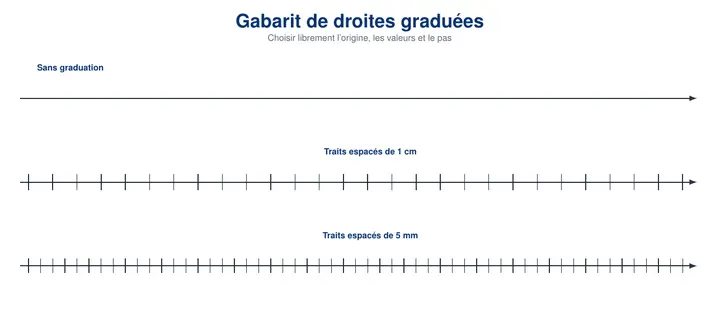
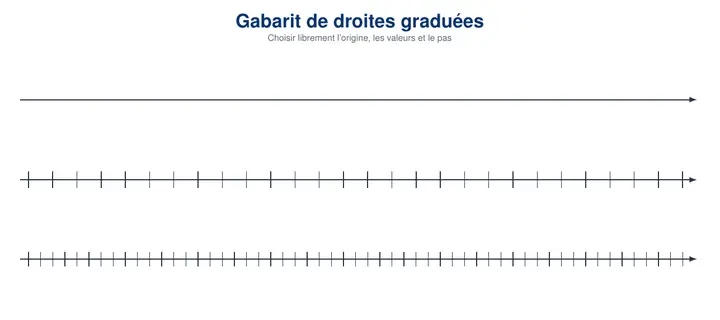
Clarifier l’impression des gabarits de repérage (#647)

diff --git a/outils/index.html b/outils/index.html
@@ -31,7 +31,7 @@
   <link rel="stylesheet" href="../assets/css/catalogue-refonte.css?v=breadcrumb-align-20260829-1">
   <link rel="stylesheet" href="../assets/css/consentement.css">
   <script defer src="../assets/js/consentement.js"></script>
-  <script defer src="../assets/js/catalogue-refonte-data.js?v=gabarits-reperage-20260904-2"></script>
+  <script defer src="../assets/js/catalogue-refonte-data.js?v=gabarits-reperage-20260904-3"></script>
   <script defer src="../assets/js/mathsgo-icon-library.js?v=geometrie-hierarchie-20260830-3"></script>
   <script defer src="../assets/js/daily-metronome.js?v=20260719-1"></script>
   <script defer src="../assets/js/mathgo-generative-icons.js?v=20260716-1"></script>

diff --git a/assets/js/catalogue-refonte-data.js b/assets/js/catalogue-refonte-data.js
@@ -765,7 +765,7 @@ window.MATHSGO_CATALOGUE = {
       "primaryGroup": "imprimer",
       "collections": [],
       "tags": ["gabarit", "plastifier", "droite-graduee", "graduations", "nombres-relatifs", "fractions", "decimaux"],
-      "thumbnail": "assets/img/thumbnails/relatifs/gabarit-droites-graduees.png?v=2",
+      "thumbnail": "assets/img/thumbnails/relatifs/gabarit-droites-graduees.png?v=3",
       "cardDescription": "Deux pages plastifiables sans zéro ni valeurs imposés : droite vierge, graduations de 1 cm et 5 mm, puis graduation millimétrique."
     },
     "outils/gabarit_reperes_plan.pdf": {

diff --git a/outils/_gabarit_droites_graduees.tex b/outils/_gabarit_droites_graduees.tex
@@ -27,8 +27,11 @@
     at ([yshift=0.30cm]current page.south)
     {mathsgo.re \textperiodcentered\ CC BY-NC-SA 4.0};
   \node[anchor=south east,text=brandNavy!70,font=\sffamily\fontsize{6.8}{6.8}\selectfont]
-    at ([xshift=-0.48cm,yshift=0.30cm]current page.south east)
+    at ([xshift=-0.48cm,yshift=0.50cm]current page.south east)
     {Gabarit plastifiable};
+  \node[anchor=south east,text=brandNavy!70,font=\sffamily\bfseries\fontsize{6.8}{6.8}\selectfont]
+    at ([xshift=-0.48cm,yshift=0.20cm]current page.south east)
+    {Imprimer à 100 \% (taille réelle)};
 \end{tikzpicture}%
 }
 \AddToShipoutPictureFG{\MathsGoPrintFooter}
@@ -95,27 +98,22 @@
 \end{tikzpicture}%
 }
 
-\newcommand{\Etiquette}[1]{%
-  {\hspace{0.88cm}\bfseries\fontsize{10}{11}\selectfont\color{brandNavy}#1}\par
-  \vspace{0.08cm}
-}
-
 \begin{document}
 
 \TitrePage{Choisir librement l'origine, les valeurs et le pas}
-\vspace{0.45cm}
-\Etiquette{Sans graduation}
-\centering\DroiteVierge\par\vspace{0.95cm}
-\Etiquette{Traits espacés de 1 cm}
-\centering\DroiteCentimetres\par\vspace{0.95cm}
-\Etiquette{Traits espacés de 5 mm}
+\vfill
+\centering\DroiteVierge\par
+\vfill
+\centering\DroiteCentimetres\par
+\vfill
 \centering\DroiteDemiCentimetres
+\vfill
 
 \newpage
 
 \TitrePage{Graduations millimétriques, sans valeurs imposées}
-\vspace{4.80cm}
-\Etiquette{Traits tous les 1 mm, plus longs tous les 5 mm et 1 cm}
+\vfill
 \centering\DroiteMillimetres
+\vfill
 
 \end{document}

diff --git a/outils/_gabarit_reperes_plan.tex b/outils/_gabarit_reperes_plan.tex
@@ -31,8 +31,11 @@
     at ([yshift=0.30cm]current page.south)
     {mathsgo.re \textperiodcentered\ CC BY-NC-SA 4.0};
   \node[anchor=south east,text=brandNavy!70,font=\sffamily\fontsize{6.8}{6.8}\selectfont]
-    at ([xshift=-0.48cm,yshift=0.30cm]current page.south east)
+    at ([xshift=-0.48cm,yshift=0.50cm]current page.south east)
     {Gabarit plastifiable};
+  \node[anchor=south east,text=brandNavy!70,font=\sffamily\bfseries\fontsize{6.8}{6.8}\selectfont]
+    at ([xshift=-0.48cm,yshift=0.20cm]current page.south east)
+    {Imprimer à 100 \% (taille réelle)};
 \end{tikzpicture}%
 }
 \AddToShipoutPictureFG{\MathsGoPrintFooter}
